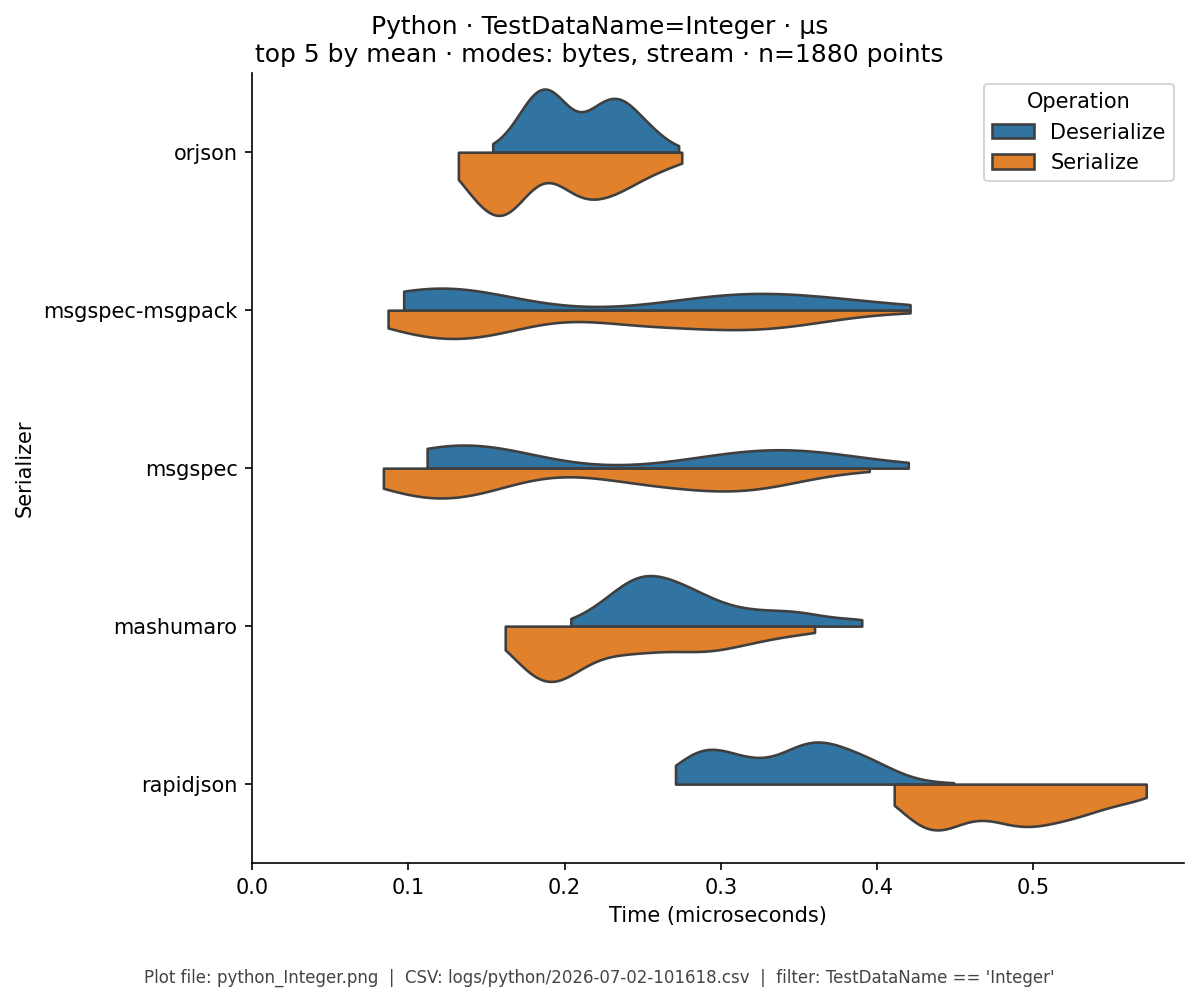
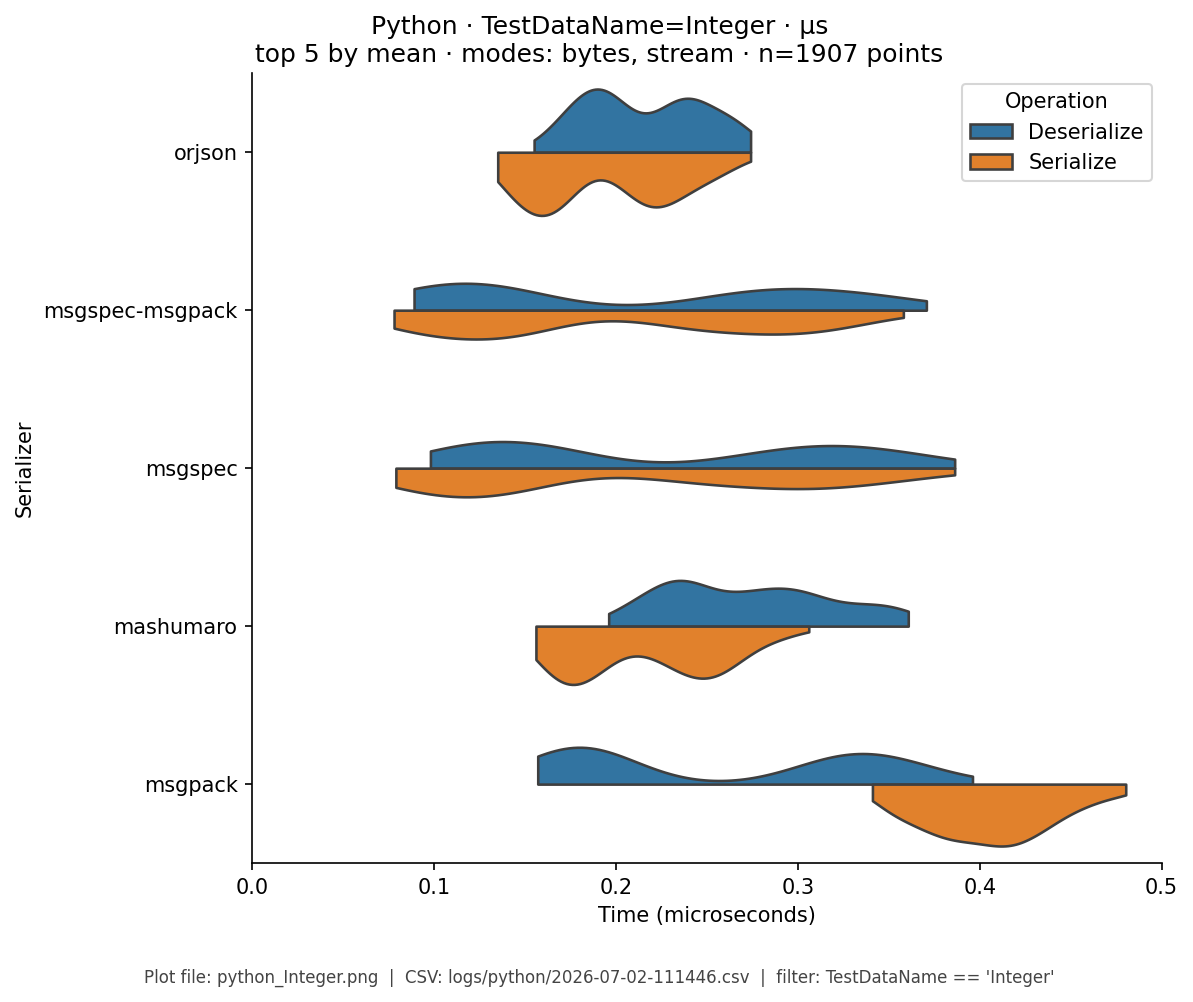
docs: regenerate Python results from logs/python/2026-07-02-111446
Full 100-rep local run to monorepo logs/python/ with environment sidecar;
refresh python results.md and violin plots via analyze-benchmarks -l python.

diff --git a/docs/python/results.md b/docs/python/results.md
@@ -1,6 +1,6 @@
 # Python — Benchmark Results
 
-**Generated:** 2026-07-02T10:39:07.882600
+**Generated:** 2026-07-02T11:16:19.468800
 
 Published **local snapshot** (not regenerated by GitHub Actions). Numbers may differ if you re-run benchmarks on another machine.
 
@@ -13,44 +13,44 @@ Serializer inventory and caveats: [Python overview](index.md). Methods: [Analysi
 
 | serializer | bytes | stream |
 |---|---|---|
-| avro | 12,854 | 12,746 |
-| cbor2 | 9,263 | 10,024 |
-| cloudpickle | 26,470 | 25,954 |
-| dill | 130,810 | 122,634 |
-| flatbuffers | 59,839 | 59,367 |
-| json | 7,562 | 8,576 |
-| mashumaro | 5,753 | 5,826 |
-| msgpack | 3,374 | 3,802 |
-| msgspec | 1,146 | 1,432 |
-| msgspec-msgpack | 1,024 | 1,316 |
-| orjson | 1,521 | 1,727 |
-| pickle | 11,199 | 11,914 |
-| protobuf | 1,003 | 1,226 |
-| pydantic | 7,690 | 7,646 |
-| rapidjson | 4,662 | 4,856 |
-| serpyco-rs | 3,373 | 3,620 |
+| avro | 12,883 | 12,685 |
+| cbor2 | 17,692 | 10,867 |
+| cloudpickle | 25,843 | 25,591 |
+| dill | 146,707 | 144,957 |
+| flatbuffers | 57,416 | 57,645 |
+| json | 13,341 | 14,067 |
+| mashumaro | 5,606 | 5,704 |
+| msgpack | 3,642 | 3,827 |
+| msgspec | 1,886 | 2,363 |
+| msgspec-msgpack | 1,012 | 1,336 |
+| orjson | 2,637 | 2,922 |
+| pickle | 11,346 | 11,647 |
+| protobuf | 1,015 | 1,104 |
+| pydantic | 8,517 | 8,283 |
+| rapidjson | 6,362 | 5,552 |
+| serpyco-rs | 3,430 | 3,602 |
 
 
 ### Python: Ops/Sec by Serializer and Data Type
 
 | serializer | EDI_835 | Integer | ObjectGraph | Person | SimpleObject | StringArray | Telemetry |
 |---|---|---|---|---|---|---|---|
-| avro | 30,952 | - | - | 77,799 | 217,095 | 30,596 | 42,050 |
-| cbor2 | 35,853 | 1,011,481 | - | 107,957 | 261,718 | 61,924 | 62,314 |
-| cloudpickle | 21,806 | 574,662 | 85,794 | 37,779 | 100,778 | 102,659 | 72,528 |
-| dill | 3,591 | 141,819 | 16,472 | 7,645 | 23,080 | 9,447 | 9,888 |
-| flatbuffers | 6,601 | - | - | 16,711 | 53,411 | 7,173 | 15,588 |
-| json | 46,097 | 394,625 | - | 132,243 | 174,576 | 44,143 | 18,564 |
-| mashumaro | 61,795 | 2,268,778 | - | 173,816 | 425,150 | 129,226 | 98,383 |
-| msgpack | 104,706 | 1,425,003 | - | 296,421 | 483,947 | 143,172 | 157,262 |
-| msgspec | 215,918 | 3,882,553 | - | 872,680 | 1,300,654 | 154,198 | 136,180 |
-| msgspec-msgpack | 385,740 | 3,982,411 | - | 976,453 | 1,456,399 | 214,417 | 322,534 |
-| orjson | 195,991 | 2,908,649 | - | 657,617 | 1,079,765 | 177,817 | 125,145 |
-| pickle | 43,545 | 1,101,569 | 141,862 | 89,293 | 173,723 | 138,555 | 106,851 |
-| protobuf | 440,194 | - | - | 997,009 | 981,314 | 213,244 | 689,304 |
-| pydantic | 53,306 | 1,099,127 | - | 130,044 | 265,403 | 87,057 | 87,954 |
-| rapidjson | 67,812 | 1,312,872 | - | 214,508 | 397,951 | 78,483 | 18,561 |
-| serpyco-rs | 96,351 | - | - | 296,434 | 506,958 | 150,621 | 123,684 |
+| avro | 28,255 | - | - | 77,621 | 326,992 | 31,410 | 46,975 |
+| cbor2 | 34,192 | 1,439,874 | - | 56,524 | 417,163 | 65,434 | 61,798 |
+| cloudpickle | 21,383 | 646,502 | 108,255 | 38,695 | 110,772 | 91,997 | 78,447 |
+| dill | 2,416 | 195,396 | 13,998 | 6,816 | 19,373 | 8,536 | 8,582 |
+| flatbuffers | 6,430 | - | - | 17,417 | 56,982 | 6,583 | 16,885 |
+| json | 44,525 | 424,783 | - | 74,958 | 282,716 | 42,722 | 19,700 |
+| mashumaro | 55,197 | 2,412,609 | - | 178,366 | 679,035 | 146,129 | 118,315 |
+| msgpack | 99,092 | 1,779,693 | - | 274,593 | 851,387 | 207,778 | 182,857 |
+| msgspec | 211,225 | 3,879,690 | - | 530,290 | 2,013,761 | 176,572 | 173,055 |
+| msgspec-msgpack | 372,790 | 4,204,625 | - | 988,444 | 2,418,989 | 301,536 | 471,079 |
+| orjson | 189,375 | 2,871,500 | - | 379,238 | 1,717,107 | 215,181 | 200,421 |
+| pickle | 46,137 | 1,092,452 | 138,031 | 88,140 | 213,634 | 125,824 | 129,772 |
+| protobuf | 424,602 | - | - | 984,867 | 1,589,200 | 321,831 | 969,482 |
+| pydantic | 48,778 | 1,158,420 | - | 117,408 | 457,409 | 98,127 | 105,640 |
+| rapidjson | 66,127 | 1,384,093 | - | 157,193 | 611,121 | 77,766 | 14,920 |
+| serpyco-rs | 86,115 | - | - | 291,566 | 809,996 | 173,152 | 144,166 |
 
 ## Violin plots
 
@@ -89,10 +89,8 @@ Density of serialize / deserialize timings (µs; log scale when medians span ≥
 Published snapshots are produced **locally** (not by GitHub Actions). After running benchmarks (each run creates a timestamped `YYYY-MM-DD-HHMMSS.csv`):
 
 ```bash
-analyze-benchmarks              # all languages (tables + plots)
+analyze-benchmarks              # all languages
 analyze-benchmarks -l python   # this language only
 ```
-
-Optional log override: `analyze-benchmarks -l python --logs PATH` or `--logs python=PATH`.
 
 That refreshes results tables, violin plots under `docs/analysis/plots/violin/`, and the [Benchmark Results](../analysis/BENCHMARK_SUMMARY.md) hub. Commit those paths to update the documentation site.

diff --git a/docs/analysis/BENCHMARK_SUMMARY.md b/docs/analysis/BENCHMARK_SUMMARY.md
@@ -1,6 +1,6 @@
 # Benchmark Results
 
-**Generated:** 2026-07-02T10:39:07.882292
+**Generated:** 2026-07-02T11:16:19.468228
 
 This page is an **index** of published snapshot results. Pivot tables and violin plots are on each language's **Results** page (generated locally, not by GitHub Actions). Re-running benchmarks elsewhere may differ — that is OK.
 
